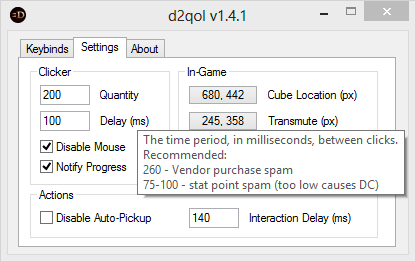
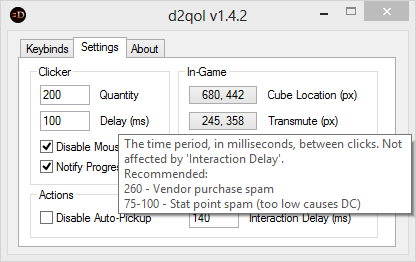
readme and small maintenence
added link to forum
added info to clicker setting tooltip
removed unnecessary bits of code

Changed region(s): [[0.2812, 0.4885, 1.0, 0.855], [0.5625, 0.0305, 0.5938, 0.0916]]

diff --git a/readme.md b/readme.md
@@ -1,7 +1,11 @@
-## d2QoL v1.4.1
+# d2QoL v1.4.2
+## AutoHotKey based utility for a Diablo II mod Median XL to reduce stress on fingers and wrist.
+
 Median XL's end-game requires highly repetitive crafting mechanics. Working with the cube slowly not only eats away at game time, but can also cause physical stress on the wrists and fingers. Since the nature of these actions is so well defined, it makes perfect target for automation. This was designed foremost as a crafting QoL utility, but it easily extends out to enhance normal gameplay.
 
 This utility does nothing more than clicks on command in locations you have specified. There is no memory peeking, no gameplay logic, nothing outside the capabilities a human can perform.
+
+General feedback and discussion is facilitated at the [Median XL forum thread](https://forum.median-xl.com/viewtopic.php?f=4&t=3302&sid=a2d830fa9aefb97dcc5264fc48caab65).
 
 ### Features
 * Supports all resolutions
@@ -58,6 +62,11 @@ This was designed and tested under windowed 800x600 resolution and DDraw. Everyt
 
 
 ### Changelog
+**1.4.2 - 5/26/18**
+* Added link to forum
+* Updated clicker setting tooltip
+* Removed unnecessary bits of code
+
 **1.4.1 - 2/7/18**  
 * Fixed an issue with releasing the mouse block during clicking sequence when window focus changes
 
